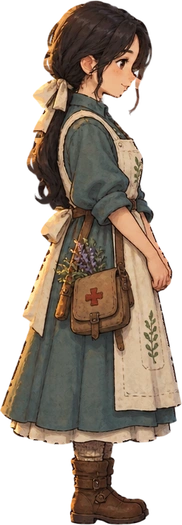
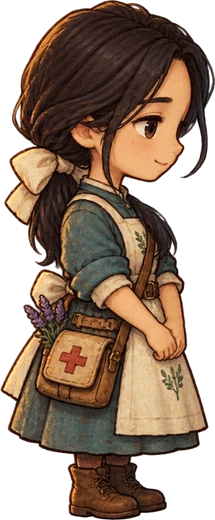
May redrawn at picture-book proportions (3 views), footprint hotspot marker on place-change points
Claude-Session: https://claude.ai/code/session_01AUyQGBnShhd9gkNdWBzHyS

diff --git a/prototype/bell_village_web/index.html b/prototype/bell_village_web/index.html
@@ -58,6 +58,8 @@ body{background:#05070f;color:var(--paper);font-family:var(--font-body);overflow
 .mark{position:absolute;width:118px;height:129px;margin-left:-59px;filter:brightness(1.12) contrast(1.15) drop-shadow(0 3px 5px rgba(0,0,0,.55));pointer-events:none;animation:bob 1.6s ease-in-out infinite;opacity:0;scale:1;transition:opacity .25s ease,scale .25s ease}
 .mark.look{width:120px;height:auto;margin-left:-60px;filter:brightness(1.1) drop-shadow(0 0 3px rgba(18,10,6,.95)) drop-shadow(0 4px 6px rgba(0,0,0,.6))}
 .mark.on{opacity:1}
+.mark.go{width:104px;height:auto;margin-left:-52px;filter:brightness(1.08) drop-shadow(0 0 3px rgba(18,10,6,.95)) drop-shadow(0 4px 6px rgba(0,0,0,.6))}
+.mark.go.on{opacity:1}
 .mark:not(.look){width:78px;height:86px;margin-left:-39px}
 .mark:not(.look).on{opacity:.85}
 #stage img.mark.on{pointer-events:auto;cursor:pointer}
@@ -1210,7 +1212,7 @@ function mkActor(cls, base, h, x){
   d.dataset.base = base; d.style.height = h + "px"; d.style.top = (FEET - h) + "px"; d.style.left = x + "px";
   actors.appendChild(d); return d;
 }
-const SPR = { big_green_bear:[299, 545, 337, 540, 305, 546], bgb_torn:[290, 551, 342, 546, 306, 553], green:[273, 548, 325, 540, 277, 546], twin_elder:[248, 498, 314, 496, 262, 499], twin_younger:[239, 453, 289, 442, 258, 456], molly:[347, 525, 355, 520, 342, 524], may:[187, 524, 206, 520, 182, 525], nini:[128,247,161,248], clockkeeper:[170,232,163,231], cafe_owner:[169,198,159,199], tommy:[207,427,211,425], edward:[170,300,170,300]  };
+const SPR = { big_green_bear:[299, 545, 337, 540, 305, 546], bgb_torn:[290, 551, 342, 546, 306, 553], green:[273, 548, 325, 540, 277, 546], twin_elder:[248, 498, 314, 496, 262, 499], twin_younger:[239, 453, 289, 442, 258, 456], molly:[347, 525, 355, 520, 342, 524], may:[234, 521, 231, 520, 215, 520], nini:[128,247,161,248], clockkeeper:[170,232,163,231], cafe_owner:[169,198,159,199], tommy:[207,427,211,425], edward:[170,300,170,300]  };
 function setActorSprite(el, dir, h){
   const base = el.dataset.base, img = el.querySelector("img");
   const s = {left:"left", right:"right", front:"front"}[dir] || "front";
@@ -1221,7 +1223,7 @@ function setActorSprite(el, dir, h){
 }
 const HZ_H = 175, TM_H = 190, MO_H = 150, GR_H = 215, ED_H = 175, KID_H = 150, BR_H = 128;
 let PH = 220;   /* player height: a child in the flashback */
-const bgb = mkActor("bgb","big_green_bear",BGB_H,S.x), hz = mkActor("hz","cafe_owner",HZ_H,1050), tm = mkActor("tm","tommy",TM_H,1930), mo = mkActor("mo","molly",MO_H,-9999), ed = mkActor("ed","edward",ED_H,-9999), br = mkActor("br","twin_younger",BR_H,-9999), gr = mkActor("gr","green",GR_H,-9999), hl = mkActor("hl","may",200,-9999), nini = mkActor("nini","nini",NINI_H,900), ck = mkActor("ck","clockkeeper",CK_H,2560);
+const bgb = mkActor("bgb","big_green_bear",BGB_H,S.x), hz = mkActor("hz","cafe_owner",HZ_H,1050), tm = mkActor("tm","tommy",TM_H,1930), mo = mkActor("mo","molly",MO_H,-9999), ed = mkActor("ed","edward",ED_H,-9999), br = mkActor("br","twin_younger",BR_H,-9999), gr = mkActor("gr","green",GR_H,-9999), hl = mkActor("hl","may",188,-9999), nini = mkActor("nini","nini",NINI_H,900), ck = mkActor("ck","clockkeeper",CK_H,2560);
 let NPCX = { ed:-9999, br:-9999, nini:1010, ck:2060, hz:-9999, tm:1380, mo:-9999, gr:-9999 }; const NPCX_V = { ed:-9999, br:-9999, nini:1010, ck:2060, hz:-9999, tm:1380, mo:2650, gr:-9999 }, NPCX_T = { ed:-9999, br:-9999, nini:-9999, ck:830, hz:-9999, tm:-9999, mo:-9999, gr:-9999 }, NPCX_A = { ed:-9999, br:-9999, nini:-9999, ck:-9999, hz:-9999, tm:-9999, mo:-9999, gr:-9999 }, NPCX_C = { ed:-9999, br:-9999, nini:-9999, ck:-9999, hz:1050, tm:-9999, mo:-9999, gr:-9999 }, NPCX_M = { ed:-9999, br:-9999, nini:-9999, ck:-9999, hz:-9999, tm:-9999, mo:-9999, gr:1650 };
 const P = { x:S.x, dir:"front", walk:0, moving:false, face:"right" };
 /* NPCs stand facing front; once BGB comes within 300 px they turn and keep looking at him until he walks beyond 380 px (the gap stops flicker) */
@@ -1257,7 +1259,7 @@ function place(){
   setActorSprite(ed, "front", S.scene==="past" ? 125 : ED_H); ed.style.left = Math.round(NPCX.ed - parseFloat(ed.style.width)/2) + "px";
   { const bx = NPCX.br; if (Math.abs(bx - (br._px ?? bx)) > 0.9){ br._dir = bx > br._px ? "right" : "left"; br._mv = tt; } br._px = bx; const bd = (br._mv && tt - br._mv < 260 && br._dir) ? br._dir : "front";   /* the younger twin faces the way he is walking, front when he stops */
   setActorSprite(br, bd, S.scene==="past" ? 90 : BR_H); } br.style.left = Math.round(NPCX.br - parseFloat(br.style.width)/2) + "px";
-  setActorSprite(hl, npcFace("hl", NPCX.hl ?? -9999), 200); hl.style.left = Math.round((NPCX.hl ?? -9999) - parseFloat(hl.style.width)/2) + "px";
+  setActorSprite(hl, npcFace("hl", NPCX.hl ?? -9999), 188); hl.style.left = Math.round((NPCX.hl ?? -9999) - parseFloat(hl.style.width)/2) + "px";
   setActorSprite(mo, S.flash ? "front" : npcFace("mo", NPCX.mo), S.flash ? 100 : MO_H); mo.style.left = Math.round(NPCX.mo - parseFloat(mo.style.width)/2) + "px";   /* placeholder silhouettes: front only, so no wrong scarf side shows */
   setActorSprite(gr, S.flash ? "front" : npcFace("gr", NPCX.gr), S.flash ? 110 : GR_H); gr.style.left = Math.round(NPCX.gr - parseFloat(gr.style.width)/2) + "px";
   setActorSprite(tm, npcFace("tm", NPCX.tm), TM_H); tm.style.left = Math.round(NPCX.tm - parseFloat(tm.style.width)/2) + "px";
@@ -1873,7 +1875,8 @@ const IA_C = [
   { id:"exit",  x:()=>480,  label:UI.leaveC, top:540, run:()=>setScene("village", 3901) },
   { id:"hz",    x:()=>NPCX_C.hz, label:UI.talkHz, top:FEET_T-HZ_H-150, run:()=>startDlg(hzNode()) }
 ];
-function mkMarks(list, host){ list.forEach(i => { const m = document.createElement("img"); const npc = ["nini","ck","hz","tm","mo","gr","hl","v1","v2","fded","fbrother"].includes(i.id); m.className = "mark" + (npc ? "" : " look"); m.src = npc ? "assets/bubble_exclaim.webp" : "assets/hotspot_ring.webp"; m.style.left = i.x()+"px"; m.style.top = i.top+"px"; host.appendChild(m); i.el = m; m.addEventListener("click", ()=>{ if (mode==="play") autoGo = i; }); }); }   /* tap a ring or a ! to walk there and use it */
+const TRAVEL = new Set(["enterA","enterC","home","heal","mill","door","exit","hexit","pdoor","gather"]);   /* place-change points get the footprint marker; the magnifier stays on "look closer" objects */
+function mkMarks(list, host){ list.forEach(i => { const m = document.createElement("img"); const go = TRAVEL.has(i.id); const npc = ["nini","ck","hz","tm","mo","gr","hl","v1","v2","fded","fbrother"].includes(i.id); m.className = "mark" + (npc ? "" : go ? " go" : " look"); m.src = npc ? "assets/bubble_exclaim.webp" : go ? "assets/hotspot_foot.webp" : "assets/hotspot_ring.webp"; m.style.left = i.x()+"px"; m.style.top = i.top+"px"; host.appendChild(m); i.el = m; m.addEventListener("click", ()=>{ if (mode==="play") autoGo = i; }); }); }   /* tap a ring or a ! to walk there and use it */
 mkMarks(IA_V, marks); mkMarks(IA_T, $("tmarks")); mkMarks(IA_A, $("amarks")); mkMarks(IA_C, $("cmarks")); mkMarks(IA_P, $("pmarks")); mkMarks(IA_H, $("hmarks")); mkMarks(IA_M, $("mmarks")); mkMarks(IA_F, $("ymarks")); mkMarks(IA_D, $("ymarks")); mkMarks(IA_FL, $("fmarks")); mkMarks(IA_FT, $("tmarks"));
 IA = IA_V;
 let near = null, peek = 0, autoGo = null;
